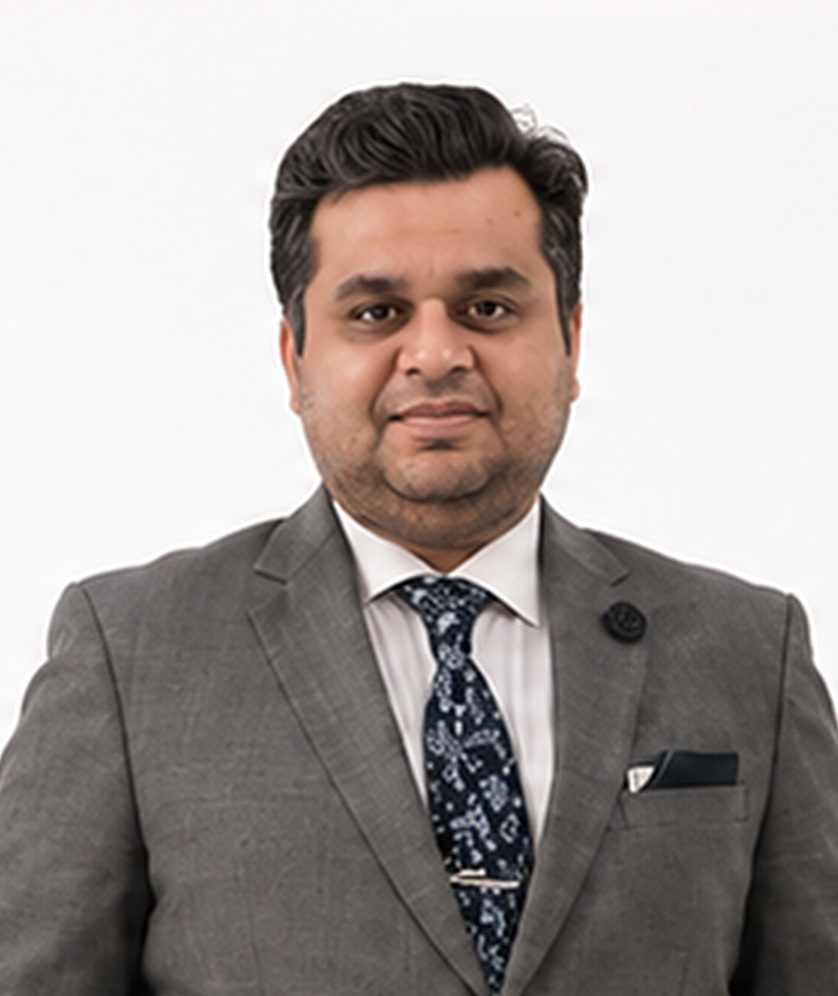
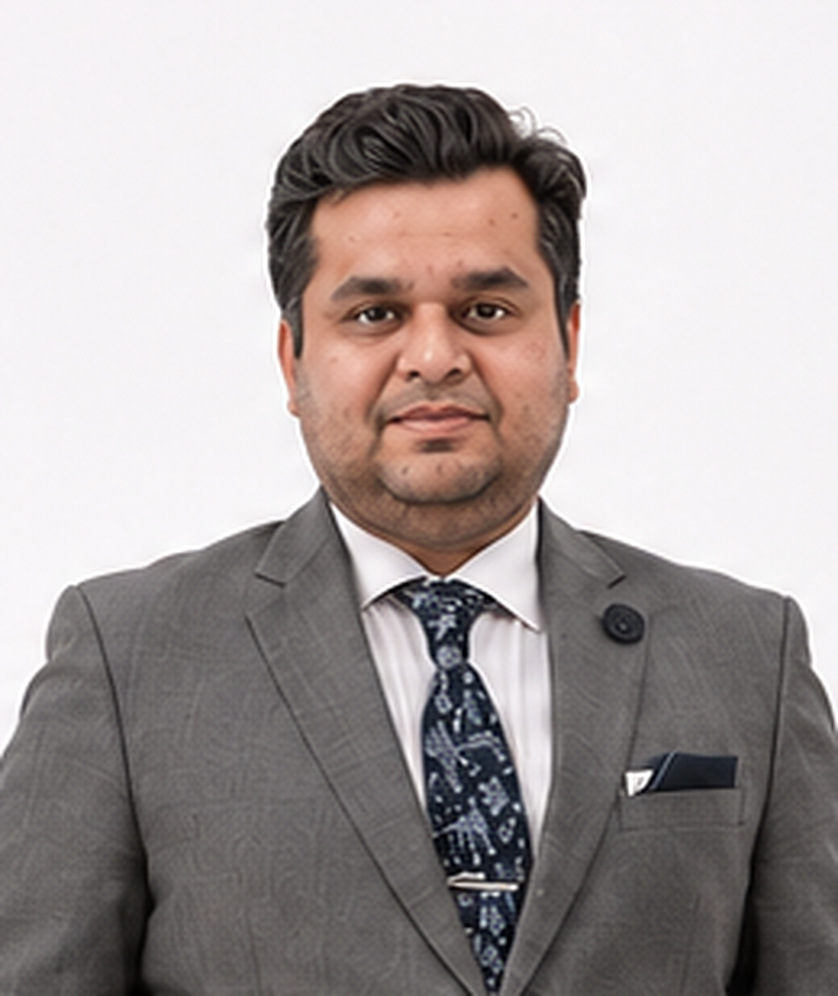
Our Team: Usama and Zain photos, sharper Bilal and Ahsan photos
Claude-Session: https://claude.ai/code/session_01ULmEauHV8F9QWj7dLHgBAa

diff --git a/lib/team.ts b/lib/team.ts
@@ -39,7 +39,7 @@ export const team: Member[] = [
       ],
       workedWith: "Worked With",
       linkedin: "https://www.linkedin.com/in/bilalmashkoor/",
-      photo: { scene: "/figma/bilal-scene.jpg", card: "/figma/bilal-card.png", left: 0.53906, top: 0.12236, focus: 0.675, bg: "#ebe0d1" },
+      photo: { scene: "/figma/bilal-scene.jpg", card: "/figma/bilal-card.jpg", left: 0.53906, top: 0.12236, focus: 0.675, bg: "#ebe0d1" },
       clients: [
         { name: "MobilinkBank", logo: "mobilink-bank", x: 287, y: 773.63, w: 28.71 },
         { name: "Norsk Global", logo: "norsk-global", x: 344.44, y: 773.63, w: 84.47 },
@@ -230,7 +230,6 @@ export const team: Member[] = [
     first: "Usama",
     last: "Zahid",
     role: "Odoo Developer",
-    // no photo yet: the card stays a placeholder and the profile opens once a photo is added
     profile: {
       intro:
         "I’m Usama Zahid, Odoo Developer at Tenxora. I build and customize business solutions in Odoo, from website front ends to backend modules, reports, access rights and workflows. I turn client requirements into clean, practical systems that solve real business problems.",
@@ -242,6 +241,7 @@ export const team: Member[] = [
       ],
       workedWith: "Worked With",
       linkedin: "https://www.linkedin.com/in/syed-usama-zahid-786296365/",
+      photo: { scene: "/figma/usama-scene.jpg", card: "/figma/usama-card.jpg", left: 0.647, top: 0.087, focus: 0.73, phoneTop: 0.04, bg: "#fefefe" },
       clients: [
         { name: "Tenxora", logo: "tenxora" },
         { name: "Synchronous Services" },
@@ -253,7 +253,6 @@ export const team: Member[] = [
     first: "Zain",
     last: "Ali",
     role: "Assistant Accountant",
-    // no photo yet: the card stays a placeholder and the profile opens once a photo is added
     profile: {
       intro:
         "I’m Zain Ali, Assistant Accountant at Tenxora. I keep the numbers clean and accurate, handling bookkeeping, bank reconciliations, invoicing and financial reporting in Odoo. As an ACCA student, I focus on precision and compliance so finance runs smoothly.",
@@ -265,6 +264,7 @@ export const team: Member[] = [
       ],
       workedWith: "Worked With",
       linkedin: "https://www.linkedin.com/in/zainali67/",
+      photo: { scene: "/figma/zain-scene.jpg", card: "/figma/zain-card.jpg", left: 0.668, top: 0.064, focus: 0.7515, phoneTop: 0.035, bg: "#fefefe" },
       clients: [
         { name: "Tenxora", logo: "tenxora" },
         { name: "Synchronous Services" },
